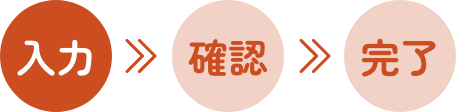
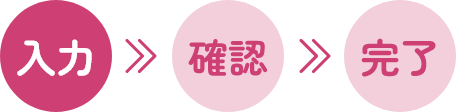
fix：申請内容の確認ページの画像差し替えとcss修正

diff --git a/assets/css/layout.css b/assets/css/layout.css
@@ -6,7 +6,7 @@
 
 :root {
     --color-main: #EBEBEB;
-    --color-sub: #F9EDE1;
+    --color-sub: #FFFAEE;
     --color-button: #CE4074;
     --color-text: #000000;
     --color-title:#CE4074;     
@@ -6190,7 +6190,7 @@ span.modal-close img {
 .circle {
     width: 100px;
     height: 100px;
-    background-color: #f0d6c9;
+    background-color: #f5d2db;
     border-radius: 50%;
     display: flex;
     justify-content: center;
